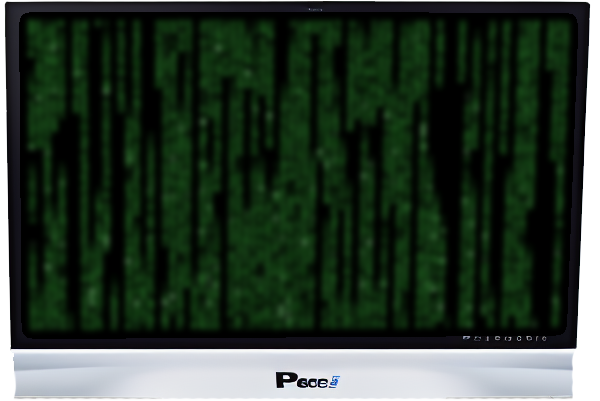
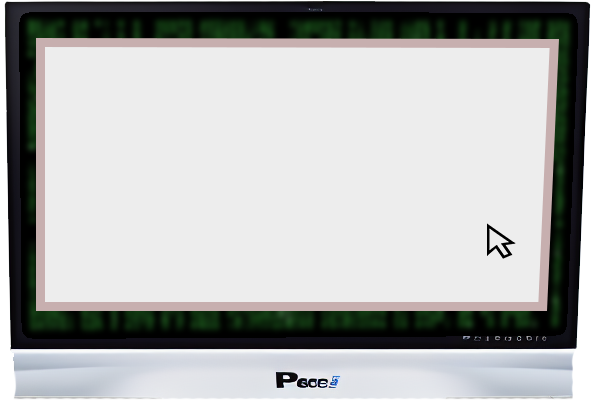
Terminada la versión previa del <main>; Agregados los botones Encriptas, Desencriptar y Copiar; Agregado un relieve al botón de idioma correspondiente.

diff --git a/style.css b/style.css
@@ -129,6 +129,7 @@
         left: 69%;
         top: 8.4%;
         transition: 0.2s;
+        border: 1.5px solid white;
     }
 
     .argentina-flag:hover
@@ -265,27 +266,128 @@ body
 }
 
 
-#texto-user:placeholder
-{
-    color: #f90d83;
-    
-}
+
 
 .hacking
 {
     float: right;
     position: relative;
-    margin: 0 5%;
- 
-
+    margin: 0 5%; 
 }
 
-.text-result
+#text-result
 {
     position: absolute;
-    top: 20%;
-    margin: 0 5%;
+    right: 14%;
+    top: 37%;
+    background-color: #ededed;
+    border: none;
+    resize: none;
+
 }
+
+.buttons
+{
+    margin-left: 15%;
+    margin-top: 2%;
+}
+
+#encrypt-btn
+{
+    position: absolute;
+    right: 80%;
+    bottom: 30%;
+    margin: -2% 0;
+    width: 8%;
+    height: 6%;
+    background-color: rgb(224, 180, 251);
+    border-radius: 10%;
+    border: 4px solid rgb(213, 150, 251);
+    font-family:'Lucida Sans', 'Lucida Sans Regular', 'Lucida Grande', 'Lucida Sans Unicode', Geneva, Verdana, sans-serif;
+    font-style: italic;
+    color: rgb(115, 0, 255);
+    transition: 0.1s;
+}
+
+#encrypt-btn:hover
+{
+    border: 5px solid rgb(213, 150, 251);
+    transition: 0.1s;
+    opacity: 85%;
+
+}
+
+#encrypt-btn:active
+{
+    border: 10px solid rgb(213, 150, 251);
+    transition: 0.1s;
+}
+
+
+#decrypt-btn
+{
+    position: absolute;
+    right: 65%;
+    bottom: 30%;
+    margin: -2% 0;
+    width: 8%;
+    height: 6%;
+    background-color: rgb(224, 180, 251);
+    border-radius: 10%;
+    border: 4px solid rgb(213, 150, 251);
+    font-family:'Lucida Sans', 'Lucida Sans Regular', 'Lucida Grande', 'Lucida Sans Unicode', Geneva, Verdana, sans-serif;
+    font-style: italic;
+    color: rgb(115, 0, 255);
+    transition: 0.1s;
+}
+
+#decrypt-btn:hover
+{
+    border: 5px solid rgb(213, 150, 251);
+    transition: 0.1s;
+    opacity: 85%;
+
+}
+
+#decrypt-btn:active
+{
+    border: 10px solid rgb(213, 150, 251);
+    transition: 0.1s;
+}
+
+
+#copy-btn
+{
+    position: absolute;
+    right: 16.5%;
+    top: 54%;
+    width: 8%;
+    height: 6%;
+    background-color: rgb(224, 180, 251);
+    border-radius: 10%;
+    border: 4px solid rgb(213, 150, 251);
+    font-family:'Lucida Sans', 'Lucida Sans Regular', 'Lucida Grande', 'Lucida Sans Unicode', Geneva, Verdana, sans-serif;
+    font-style: italic;
+    color: rgb(115, 0, 255);
+    transition: 0.1s;
+}
+
+#copy-btn:hover
+{
+    border: 5px solid rgb(213, 150, 251);
+    transition: 0.1s;
+    opacity: 85%;
+
+}
+
+#copy-btn:active
+{
+    border: 10px solid rgb(213, 150, 251);
+    transition: 0.1s;
+}
+
+
+
 
 /* Footer content */
 

diff --git a/encryptor.html b/encryptor.html
@@ -40,7 +40,7 @@
             <section class = container >
                 
                 <div>
-                    <textarea id="text-user" placeholder="Ingrese aquí el téxto a encriptar..." cols="30" rows="10" onkeyup="soloMinuscula(this)"></textarea>
+                    <textarea id="text-user" placeholder="Ingrese aquí el téxto a encriptar..." required cols="30" rows="10" onkeyup="soloMinuscula(this)"></textarea>
                 </div>
                 
                 <section class = "buttons" >
@@ -50,8 +50,8 @@
                 </section>
 
                 <section class = "text-result" >
-                    <input id = text-result type= "text">
-                    
+                <textarea id="text-result" placeholder=" Aquí recibirás el téxto encriptado. " cols="30" rows="10" onkeyup="soloMinuscula(this)"></textarea>
+                
             </section>
             
             </section>
